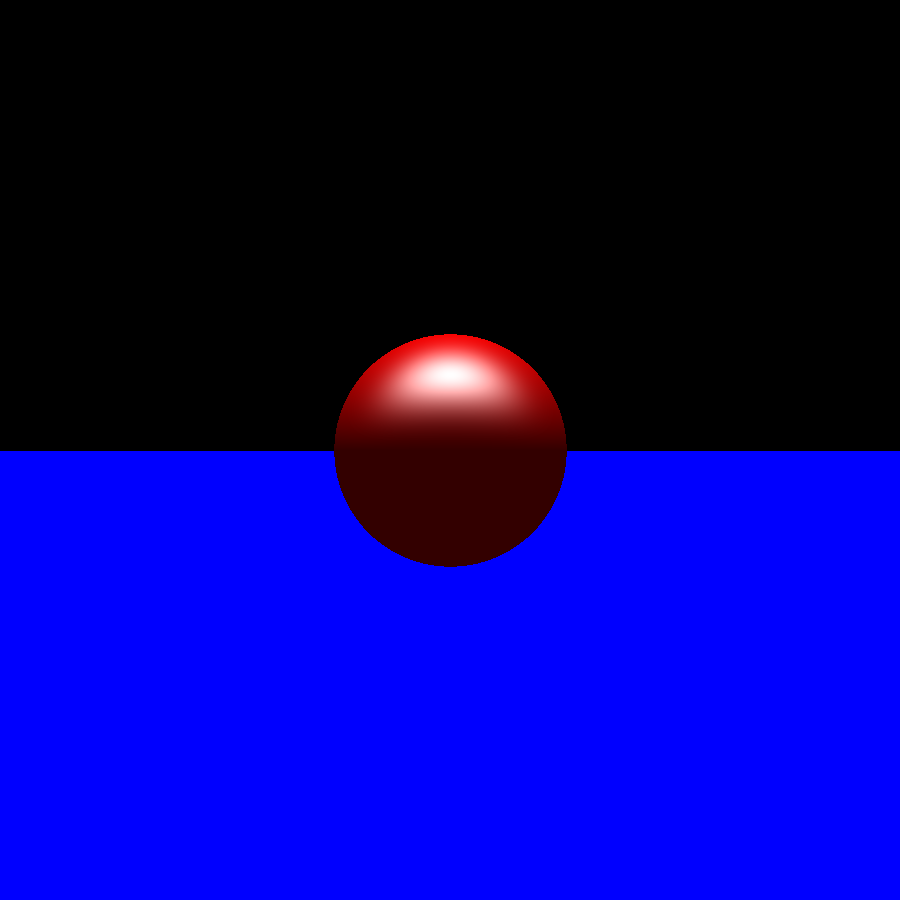
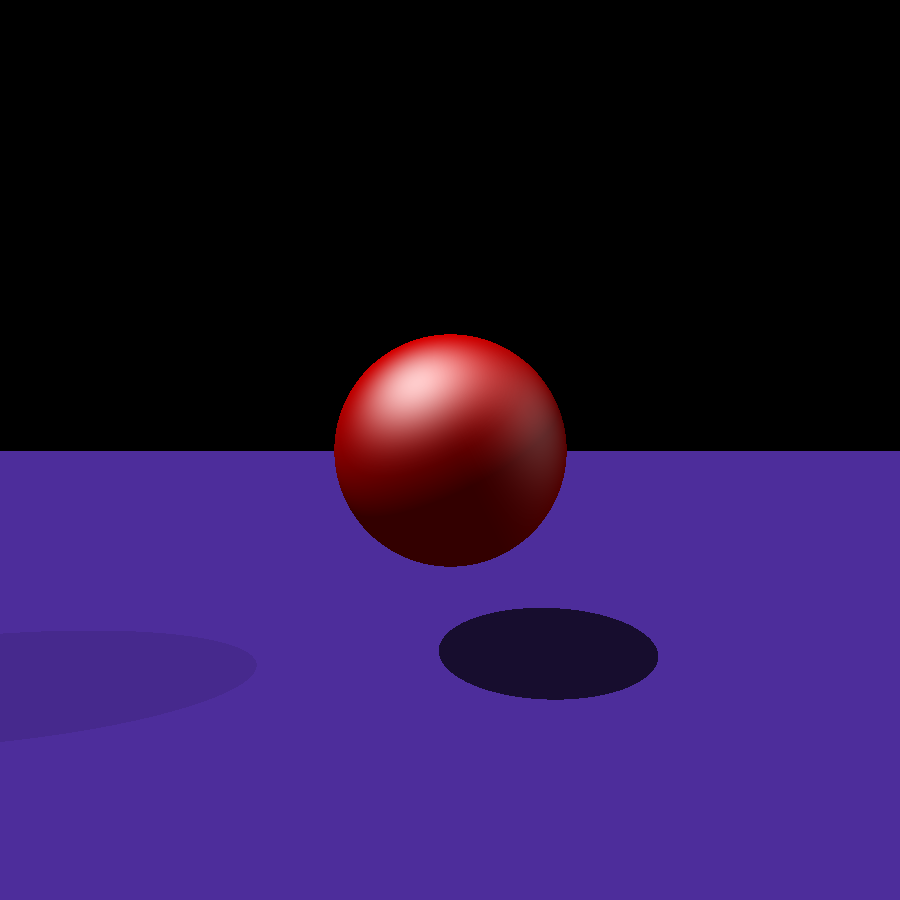
Add shadows

diff --git a/src/main.rs b/src/main.rs
@@ -257,6 +257,7 @@ struct MaterialProperties {
 
 // TODO: consider other values of epsilon
 static EPSILON: f32 = 0.0000001;
+static SELF_INTERSECT_OFFSET: f32 = 0.00001;
 
 impl SceneObject {
     fn hit(&self, &Ray{origin: ref o, direction: ref d}: &Ray) -> Option<Point> {
@@ -270,10 +271,19 @@ impl SceneObject {
                 let discriminant = d.dot(&offset).powi(2) - offset.length().powi(2) + radius.powi(2);
                 if discriminant < 0.0 {
                     None
-                } else if discriminant == 0.0 {
-                    Some(*o + d.times(initial))
                 } else {
-                    Some(*o + d.times(FloatMath::min(initial + discriminant, initial - discriminant)))
+                    let radical = discriminant.sqrt();
+                    let farther_distance = initial + radical;
+                    let closer_distance = initial - radical;
+                    if farther_distance < 0.0 {
+                        // both intersection points are behind the ray
+                        None
+                    } else if closer_distance < 0.0 {
+                        // the closer intersection point is behind the ray, so use the farther one
+                        Some(farther_distance)
+                    } else {
+                        Some(closer_distance)
+                    }.map(|dist| *o + d.times(dist))
                 }
             },
             Shape::Plane {ref point, ref normal} => {
@@ -321,8 +331,13 @@ struct Scene {
 impl Scene {
     fn hit(&self, ray: &Ray) -> Option<(Point, &SceneObject)> {
         self.objects.iter()
-            .filter_map(|obj| obj.hit(ray).map(|p| (p,obj)))//.inspect(|&(ref p,_)| println!("{}", p))
+            .filter_map(|obj| obj.hit(ray).map(|p| (p,obj)))
             .min_by(|&(ref p,_)| OrderedF32(p.distance(&ray.origin)))
+    }
+
+    fn hit_any(&self, ray: &Ray) -> bool {
+        self.objects.iter()
+            .any(|obj| obj.hit(ray).is_some())
     }
 }
 
@@ -395,34 +410,34 @@ fn setup_scene() -> Scene {
                 },
                 properties: MaterialProperties {
                     color: Color {
-                        red: 0x00,
-                        green: 0x00,
-                        blue: 0xFF
+                        red: 0x50,
+                        green: 0x30,
+                        blue: 0xA0
                     },
                     specular: 0.0,
                     diffuse: 1.0,
                     ambient: 0.2,
-                    shininess: 3.0
+                    shininess: 2.0
                 }
             }
         ],
         lights: vec![
             Light::Direction {
                 direction: Vector {
-                    dx: 0.0,
+                    dx: -2.0,
                     dy: -1.0,
                     dz: 0.0
                 },
-                intensity: 1.0
+                intensity: 0.2
             },
-            // Light::Direction {
-            //     direction: Vector {
-            //         dx: -0.5,
-            //         dy: -0.5,
-            //         dz: -1.0
-            //     },
-            //     intensity: 1.0
-            // }
+            Light::Direction {
+                direction: Vector {
+                    dx: 1.5,
+                    dy: -3.0,
+                    dz: 1.0
+                },
+                intensity: 0.8
+            }
         ]
     }
 }
@@ -442,10 +457,15 @@ fn ray_to_color(ray: &Ray, scene: &Scene) -> Color {
         (diffuse_color + specular_color) * light.intensity_for(point)
     }
 
+    // TODO: remove duplicate normal calls
     match scene.hit(ray) {
         Some((point, obj)) => {
             let ambient = obj.properties.color * obj.properties.ambient;
             ambient + scene.lights.iter()
+                .filter(|l| {
+                    let purturbed_point = point + obj.normal_at(&point).times(SELF_INTERSECT_OFFSET);
+                    !scene.hit_any(&Ray {direction: l.vector_for(&purturbed_point), origin: purturbed_point})
+                })
                 .map(|l| light_contribution(l, &point, obj, ray))
                 .fold(Color::black(), |a, b| a + b)
         },
